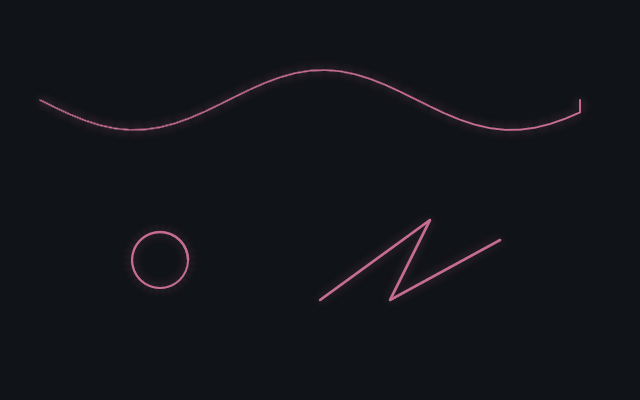
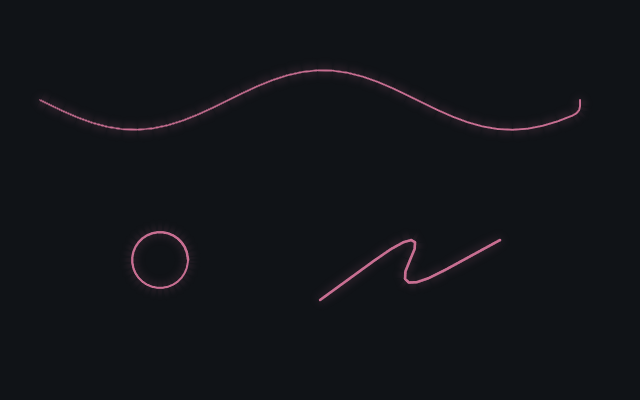
Smooth cursor paths and randomize fragment scattering and brightness

diff --git a/cursor-effects-native/tests/NativeTests.cs b/cursor-effects-native/tests/NativeTests.cs
@@ -61,21 +61,23 @@ sealed partial class CursorHost {
         Require(normal.Particles.Count==narrow.Particles.Count&&normal.Particles.Count==wide.Particles.Count,"Spread changes particle density");
         Require(narrow.Particles.All(p=>p.Y==200&&p.Vy==0),"Zero spread leaves the path");
         Require(normal.Particles.Count(p=>p.Y<200)>=3&&normal.Particles.Count(p=>p.Y>200)>=3,"Fragments do not occupy both sides of the path");
-        Require(normal.Particles.Average(p=>Math.Abs(p.Y-200))>12,"Default fragments still hug the path");
+        Require(normal.Particles.All(p=>Math.Abs(p.Y-200)<=3),"Fragments start in an artificial distant band");
+        Require(normal.Particles.Count(p=>p.Vx<0)>=2&&normal.Particles.Count(p=>p.Vx>0)>=2,"Scatter lacks random tangential directions");
+        Require(normal.Particles.Any(p=>(p.Y-200)*p.Vy<0),"Scatter always forces fragments outward from their initial offset");
         for(int i=0;i<normal.Particles.Count;i++){
             var a=normal.Particles[i];var b=wide.Particles[i];var v=vertical.Particles[i];
             Require(Math.Abs((b.Y-200)-2*(a.Y-200))<.00001&&Math.Abs(b.Vy-2*a.Vy)<.00001,"Spread does not scale distance independently");
-            Require(a.X==b.X&&a.Life==b.Life&&a.Size==b.Size,"Spread changes speed lifetime, density or size");
+            Require(Math.Abs((b.X-narrow.Particles[i].X)-2*(a.X-narrow.Particles[i].X))<.00001&&Math.Abs(b.Vx-2*a.Vx)<.00001&&a.Life==b.Life&&a.Size==b.Size&&a.Light==b.Light,"Spread changes lifetime, brightness, density or size");
             Require(Math.Abs(v.X-200+a.Y-200)<.00001&&Math.Abs(v.Y-a.X)<.00001,"Scatter is not perpendicular to a vertical path");
-            Require((a.Y-200)*a.Vy>0,"Fragments drift back toward the path");
         }
+        normal.Draw(.1);normal.Draw(.1);Require(normal.Particles.Average(p=>Math.Abs(p.Y-200))>5,"Random trajectories do not visibly disperse over time");
         var clickA=SpreadSample(0);var clickB=SpreadSample(3);clickA.Clear();clickB.Clear();clickA.Click=clickB.Click=true;clickA.Input(200,200,true,true);clickB.Input(200,200,true,true);
         Require(clickA.Particles.SelectMany(p=>new[]{p.X,p.Y,p.Vx,p.Vy,p.Life,p.Size}).SequenceEqual(clickB.Particles.SelectMany(p=>new[]{p.X,p.Y,p.Vx,p.Vy,p.Life,p.Size})),"Trail spread changes click bursts");
-        renderer.Appearance(Color.FromArgb(239,131,173),Color.FromArgb(219,90,145),Color.FromArgb(255,225,236));
+        var sakura=ColorPalette.All[2];renderer.Appearance(sakura.Trail,sakura.Ripple,sakura.Fragment);
         using(var sheet=new Bitmap(640,540))using(var g=Graphics.FromImage(sheet))using(var title=new Font("Microsoft JhengHei UI",13)){
             g.Clear(Color.FromArgb(16,19,23));
             for(int row=0;row<3;row++){
-                var fx=SpreadSample(row);fx.Viewport=new Rectangle(0,0,640,400);fx.Draw(.08);
+                var fx=SpreadSample(row);fx.Viewport=new Rectangle(0,0,640,400);fx.Draw(.1);fx.Draw(.02);
                 string path=Path.Combine(profile,"trail-spread-"+row+".png");SaveBackground(renderer.Capture(fx,640,400),Color.FromArgb(16,19,23),path);
                 g.DrawString("拖曳分散 "+(row*100)+"%"+(row==1?"（預設）":""),title,Brushes.White,20,row*180+10);
                 using(var rendered=new Bitmap(path))g.DrawImage(rendered,new Rectangle(0,row*180+36,640,140),new Rectangle(0,130,640,140),GraphicsUnit.Pixel);
@@ -122,6 +124,38 @@ sealed partial class CursorHost {
         foreach(var p in new[]{new Point(320,300),new Point(430,220),new Point(390,300),new Point(500,240)})curves.Input(p.X,p.Y,p.X==320,true);
         curves.Draw(.02);SaveBackground(renderer.Capture(curves,640,400),Color.FromArgb(16,19,23),Path.Combine(profile,"trail-joints.png"));
     }
+    static double LargestTurn(IEnumerable<PointF> points){
+        var p=points.ToArray();double largest=0;
+        for(int i=1;i<p.Length-1;i++){double ax=p[i].X-p[i-1].X,ay=p[i].Y-p[i-1].Y,bx=p[i+1].X-p[i].X,by=p[i+1].Y-p[i].Y;double norm=Math.Sqrt((ax*ax+ay*ay)*(bx*bx+by*by));if(norm>0)largest=Math.Max(largest,Math.Acos(Math.Max(-1,Math.Min(1,(ax*bx+ay*by)/norm))));}return largest;
+    }
+    void TestCurvesAndLight(){
+        var fx=new CursorEffects(()=>.5){Viewport=new Rectangle(0,0,640,400)};fx.Configure(true,false,1,1,0,1,60);
+        var sample=new[]{new Point(100,220),new Point(140,140),new Point(240,100),new Point(340,140),new Point(400,220),new Point(340,300),new Point(240,340),new Point(140,300),new Point(100,220)};
+        for(int i=0;i<sample.Length;i++)fx.Input(sample[i].X,sample[i].Y,i==0,true);fx.Draw(0);
+        Require(fx.SmoothTrail.Count>sample.Length&&fx.SmoothTrail.Count<=CursorEffects.MaxTrailVertices,"Sparse loop was not smoothed within a fixed budget");
+        Require(LargestTurn(fx.SmoothTrail.Select(p=>new PointF((float)p.X,(float)p.Y)))<LargestTurn(sample.Select(p=>new PointF(p.X,p.Y)))*.6,"Sparse loop still has pronounced angular joints");
+        Require(fx.SmoothTrail.All(p=>p.X>=100&&p.X<=400&&p.Y>=100&&p.Y<=340),"Curve overshoots input bounds");
+        Require(fx.SmoothTrail.First().X==100&&fx.SmoothTrail.Last().X==100&&fx.SmoothTrail.Last().Y==220,"Smoothing delays/drops the cursor endpoint");
+        var blue=ColorPalette.All[0];renderer.Appearance(blue.Trail,blue.Ripple,blue.Fragment);
+        SaveBackground(renderer.Capture(fx,640,400),Color.FromArgb(16,19,23),Path.Combine(profile,"curve-smooth.png"));
+        var legacy=new CursorEffects();for(int i=1;i<sample.Length;i++)legacy.Commands.Add(new DrawCommand(0,sample[i-1].X,sample[i-1].Y,sample[i].X,sample[i].Y,2.5,0,.9));
+        SaveBackground(renderer.Capture(legacy,640,400),Color.FromArgb(16,19,23),Path.Combine(profile,"curve-linear.png"));
+        using(var sheet=new Bitmap(1280,432))using(var g=Graphics.FromImage(sheet))using(var title=new Font("Microsoft JhengHei UI",13)){
+            g.Clear(Color.FromArgb(16,19,23));g.DrawString("相同稀疏取樣 · 原始折線",title,Brushes.White,20,8);g.DrawString("相同稀疏取樣 · 曲線補間",title,Brushes.White,660,8);
+            using(var a=new Bitmap(Path.Combine(profile,"curve-linear.png")))g.DrawImageUnscaled(a,0,32);using(var b=new Bitmap(Path.Combine(profile,"curve-smooth.png")))g.DrawImageUnscaled(b,640,32);sheet.Save(Path.Combine(profile,"curve-comparison.png"));
+        }
+        var lights=SpreadSample(1);lights.Draw(0);var before=lights.Commands.Where(c=>c.Kind==2).ToArray();
+        Require(before.Max(c=>c.Alpha)-before.Min(c=>c.Alpha)>.25,"Same-age fragments lack independent brightness");
+        var birth=lights.Particles.Select(p=>p.Light).ToArray();lights.Draw(0);Require(before.SequenceEqual(lights.Commands.Where(c=>c.Kind==2)),"Zero-time draw resamples randomness");
+        lights.Strength=0;lights.Draw(0);Require(!lights.Commands.Any(c=>c.Kind>=3)&&before.SequenceEqual(lights.Commands.Where(c=>c.Kind==2)),"Glow zero changes the particle body");
+        lights.Strength=3;lights.Draw(0);Require(before.SequenceEqual(lights.Commands.Where(c=>c.Kind==2)),"Glow strength changes body brightness");
+        lights.Draw(.1);Require(lights.Particles.Select(p=>p.Light).SequenceEqual(birth)&&lights.Commands.Where(c=>c.Kind==2).Zip(before,(a,b)=>a.Alpha<b.Alpha).All(v=>v),"Particle brightness flickers instead of fading");
+        // Worst-case 1s zigzags, maximum particles/rings/glow, same native ABI cap.
+        var stress=new CursorEffects(()=>.5){Viewport=new Rectangle(0,0,1920,1080)};stress.Configure(true,true,3,3,3,1,60);stress.SetTrailLifetime(1);
+        for(int i=0;i<16;i++)stress.Input(300,300,true,true);for(int i=0;i<128;i++)stress.Input(i%2==0?100:1800,100+i*5,false,true);stress.Draw(0);
+        Require(stress.SmoothTrail.Count<=CursorEffects.MaxTrailVertices&&stress.Commands.Count<=2048,"Curve maximum exceeds renderer budget");
+        renderer.Capture(stress,1920,1080);
+    }
     async void RunTest(){
         string report=Path.Combine(profile,"test.json");var checks=new List<string>();var shell=Native.ShellInputHandles().ToDictionary(h=>h,h=>Native.IsWindowEnabled(h));
         try{
@@ -145,7 +179,7 @@ sealed partial class CursorHost {
             before=Frames;Pointer(origin.X+150,origin.Y+100,true,true);await Task.Delay(150);Require(Frames-before>=7&&Frames-before<=12,"60 FPS scheduler");StopAnimation(true);ResetControls();inputTimer.Stop();checks.Add("fixed 60 FPS scheduler");
             var test=new CursorEffects(()=>.5){Viewport=new Rectangle(-1920,-100,3840,1080)};test.Input(-1820,0,true,true);Require(test.Points.Single().X==100&&test.Points.Single().Y==100,"Negative monitor origin");test.Input(-1800,20,true,true,true);Require(test.Points.Count==1,"Blocked input emits");test.Clear();test.Configure(true,true,1,1,3,1,60);test.Input(-1820,0,true,true);Require(test.Particles.Count==18,"Density multiplier");test.Configure(true,true,2,1,3,1,60);Require(test.Particles[0].Size==10,"Size multiplier");for(int i=0;i<1000;i++)test.Input(-1820+(i*4)%1500,100,true,true);Require(test.Points.Count==CursorEffects.MaxTrailPoints&&test.Particles.Count==192&&test.Rings.Count==16,"Unbounded particles");for(int i=0;i<20;i++)test.Draw(.1);Require(test.Alive==0,"Expiration");checks.Add("negative origin, blocked controls, multipliers, bounded memory, finite lifetimes");
             TestHighSpeedTrails();checks.Add("600px real GPU line without gaps, 3720px multi-monitor stroke with distributed fragments, release/blocked boundaries, 1000 rapid 7600px samples within fixed budgets");
-            TestTrailDefaultsAndFade();checks.Add("halved click and slow/fast drag density, 80 percent baseline width, 40-1000ms fade, continuous live edits, 1s trail at 125Hz");TestTrailJoints();checks.Add("GPU trail overlap invariant, no sample-node brightening or gaps, tight loops and acute turns, independent ring blend");TestTrailSpread();checks.Add("perpendicular two-sided scatter, independent range/count/click effects, 0/100/200 percent GPU previews");
+            TestTrailDefaultsAndFade();checks.Add("halved click and slow/fast drag density, 80 percent baseline width, 40-1000ms fade, continuous live edits, 1s trail at 125Hz");TestTrailJoints();checks.Add("GPU trail overlap invariant, no sample-node brightening or gaps, tight loops and acute turns, independent ring blend");TestTrailSpread();TestCurvesAndLight();checks.Add("near-path random velocity scatter, independent per-particle brightness, smooth sparse loops, bounded curve budget, glow changes halo only");
             var visual=new List<object>();double prev=0;
             renderer.Appearance(Color.FromArgb(69,237,255),Color.FromArgb(69,237,255),Color.FromArgb(196,252,255));
             foreach(int glow in new[]{0,1,3}){
@@ -173,7 +207,7 @@ sealed partial class CursorHost {
             renderer.Appearance(Color.FromArgb(69,237,255),Color.FromArgb(69,237,255),Color.FromArgb(196,252,255));var plain=renderer.Capture(Sample(1),640,400);SaveBackground(plain,Color.White,Path.Combine(profile,"effects-white.png"));SaveBackground(plain,Color.FromArgb(16,19,23),Path.Combine(profile,"effects-dark.png"));checks.Add("independent sizes/opacity, cached GPU recoloring, live particle speed and zero-speed expiration, original appearance without outlines");
             // Validate actual composition, not just offscreen drawing. The
             // screenshot is restricted to our own temporary black test window.
-            controls.HidePanel();StopAnimation(true);
+            controls.HidePanel();inputTimer.Stop();StopAnimation(true);lastHealth=clock.ElapsedMilliseconds;
             {
                 var area=Screen.PrimaryScreen.WorkingArea;var rect=new Rectangle(area.Left+Math.Max(0,(area.Width-640)/2),area.Top+Math.Max(0,(area.Height-400)/2),640,400);
                 // Overlay suppresses GDI painting; a normal owned form below
@@ -190,6 +224,7 @@ sealed partial class CursorHost {
             controls.VisibleValue.Checked=false;using(var bitmap=new Bitmap(controls.Width,controls.Height)){controls.DrawToBitmap(bitmap,new Rectangle(0,0,bitmap.Width,bitmap.Height));bitmap.Save(Path.Combine(profile,"controls-off.png"));}controls.VisibleValue.Checked=true;Configure();
             controls.WindowState=FormWindowState.Minimized;Require(controls.Visible&&controls.WindowState==FormWindowState.Minimized&&controls.ShowInTaskbar&&overlay.Visible,"Normal minimize changes effects/taskbar");ShowControls();Require(controls.Visible&&controls.WindowState==FormWindowState.Normal,"Restore");controls.HidePanel();Require(!controls.Visible&&overlay.Visible,"Hide differs from minimize");
             controls.Updating=true;controls.EffectSize.Value=173;controls.ParticleStrength.Value=142;controls.ParticleSpeed.Value=225;controls.TrailSpread.Value=175;controls.TrailFade.Value=320;controls.OpacityValue.Value=68;controls.RippleSize.Value=230;controls.TrailFragmentSize.Value=51;controls.ClickFragmentSize.Value=182;controls.ClickOpacity.Value=29;controls.TrailColor.Value=Color.Red;controls.RippleColor.Value=Color.Blue;controls.FragmentColor.Value=Color.Green;controls.VisibleValue.Checked=false;controls.Updating=false;SaveControls(true);Require(!File.ReadAllText(ControlsPath).Contains("contrast"),"Removed outline persisted");controls.VisibleValue.Checked=true;ResetControls();Require(controls.ParticleSpeed.Value==100&&controls.TrailSpread.Value==100&&controls.TrailFade.Value==180,"Speed/spread/fade reset");RestoreControls(true);Require(controls.EffectSize.Value==173&&controls.ParticleStrength.Value==142&&controls.ParticleSpeed.Value==225&&controls.TrailSpread.Value==175&&controls.TrailFade.Value==320&&controls.OpacityValue.Value==68&&controls.RippleSize.Value==230&&controls.TrailFragmentSize.Value==51&&controls.ClickFragmentSize.Value==182&&controls.ClickOpacity.Value==29&&controls.TrailColor.Value.ToArgb()==Color.Red.ToArgb()&&controls.RippleColor.Value.ToArgb()==Color.Blue.ToArgb()&&controls.FragmentColor.Value.ToArgb()==Color.Green.ToArgb()&&!controls.VisibleValue.Checked,"Settings persistence");Configure();Require(!overlay.Visible,"Restored OFF ignored");
+            File.WriteAllText(ControlsPath,"{\"version\":6,\"trailColor\":\"#EF83AD\",\"rippleColor\":\"#DB5A91\",\"fragmentColor\":\"#FFE1EC\",\"trailFadeMs\":320}");RestoreControls(true);Require(controls.TrailColor.Value==ColorPalette.All[2].Trail&&controls.RippleColor.Value==ColorPalette.All[2].Ripple&&controls.FragmentColor.Value==ColorPalette.All[2].Fragment&&controls.TrailFade.Value==320,"Old Sakura preset migration changed custom parameters");
             File.WriteAllText(ControlsPath,"{\"version\":1,\"visible\":true,\"top\":false,\"monitor\":\"removed\",\"fps\":7,\"size\":125}");RestoreControls(true);Configure();Require(controls.VisibleValue.Checked&&overlay.Visible&&overlay.Bounds==SystemInformation.VirtualScreen&&effects.Fps==60&&(Native.GetWindowLongPtr(overlay.Handle,-20).ToInt64()&8)!=0,"Legacy settings override fixed behavior");checks.Add("actual settings save/restore, legacy visibility migration ignores removed options");
             Require(controls.TrailSpread.Value==100&&controls.TrailFade.Value==180&&controls.RippleSize.Value==125&&controls.TrailFragmentSize.Value==125&&controls.ClickFragmentSize.Value==125,"Legacy global size migration");foreach(var entry in shell)Require(!entry.Value||!Native.IsWindow(entry.Key)||Native.IsWindowEnabled(entry.Key),"Shell disabled");checks.Add("normal taskbar minimize, explicit hide keeps effects, restore works, X exits");
             var result=new{passed=true,hardware=renderer.Hardware,checks,visual,frames=Frames,layerRepairs};controls.Close();Require(quitting&&controls.IsDisposed,"X didn't exit");File.WriteAllText(report,Json.Serialize(result));

diff --git a/cursor-effects-native/src/Effects.cs b/cursor-effects-native/src/Effects.cs
@@ -8,10 +8,13 @@ using System.Runtime.InteropServices;
     public DrawCommand(int kind,double x,double y,double x2,double y2,double width,double angle,double alpha){Kind=kind;X=(float)x;Y=(float)y;X2=(float)x2;Y2=(float)y2;Width=(float)width;Angle=(float)(angle*180/Math.PI);Alpha=(float)alpha;}
 }
 sealed class CursorEffects {
-    internal sealed class Item {public double X,Y,Vx,Vy,Angle,Spin,Age,Life,Size;public bool Start,Burst;}
+    internal sealed class Item {public double X,Y,Vx,Vy,Angle,Spin,Age,Life,Size,Light=1;public bool Start,Burst;}
+    internal struct TrailVertex {public double X,Y,Fade,Width;public bool Start;}
     internal const int MaxTrailPoints=128;
+    internal const int MaxTrailVertices=MaxTrailPoints*4;
     internal readonly List<Item> Points=new List<Item>(MaxTrailPoints),Particles=new List<Item>(192),Rings=new List<Item>(16);
-    public readonly List<DrawCommand> Commands=new List<DrawCommand>(1600);
+    internal readonly List<TrailVertex> SmoothTrail=new List<TrailVertex>(MaxTrailVertices);
+    public readonly List<DrawCommand> Commands=new List<DrawCommand>(2048);
     readonly Func<double> random;Item last;double trailEmission;
     public bool Trail=true,Click=true,Dirty;public double Size=1,Strength=1,Density=.5,Opacity=1;public int Fps=60;
     public double TrailWidth=.8,RippleSize=1,TrailFragmentSize=1,ClickFragmentSize=1,TrailOpacity=1,ClickOpacity=1;double particleSpeed=1,trailSpread=1,trailLifetime=.18;
@@ -33,7 +36,7 @@ sealed class CursorEffects {
     }
     static double Clamp(double value,double min,double max){return double.IsNaN(value)||double.IsInfinity(value)?min:Math.Max(min,Math.Min(max,value));}
     static double Distance(Item a,Item b){double x=a.X-b.X,y=a.Y-b.Y;return Math.Sqrt(x*x+y*y);}
-    public void Clear(bool resetPointer=true){Points.Clear();Particles.Clear();Rings.Clear();Commands.Clear();if(resetPointer){last=null;trailEmission=0;}Dirty=false;}
+    public void Clear(bool resetPointer=true){Points.Clear();SmoothTrail.Clear();Particles.Clear();Rings.Clear();Commands.Clear();if(resetPointer){last=null;trailEmission=0;}Dirty=false;}
     public void Input(double x,double y,bool down,bool pressed,bool blocked=false){
         if(blocked||x<Viewport.Left||y<Viewport.Top||x>=Viewport.Right||y>=Viewport.Bottom){last=null;trailEmission=0;return;}
         if(Opacity==0||!Trail&&!Click)return;
@@ -60,12 +63,14 @@ sealed class CursorEffects {
         int count=(int)Math.Floor(trailEmission);trailEmission-=count;
         double tx=(b.X-a.X)/distance,ty=(b.Y-a.Y)/distance,nx=-ty,ny=tx;
         for(int i=0;i<count;i++){
-            // Stratified positions preserve coverage at high speed. Spawn on
-            // both sides of the path so short-lived fragments separate visibly.
-            double t=(i+random())/count,side=random()<.5?-1:1,scale=Size*trailSpread;
-            double offset=side*(8+random()*20)*scale;
-            var p=Particle(a.X+(b.X-a.X)*t+nx*offset,a.Y+(b.Y-a.Y)*t+ny*offset,false);
-            double drift=(random()-.5)*22*Size,outward=side*(18+random()*38)*scale;
+            // Start near the path, then travel in a random direction. There is
+            // no empty strip or compulsory outward offset on either side.
+            double t=(i+random())/count,scale=Size*trailSpread;
+            double spawnAngle=random()*Math.PI*2,radius=Math.Sqrt(random())*3*scale;
+            double along=Math.Cos(spawnAngle)*radius,across=Math.Sin(spawnAngle)*radius;
+            var p=Particle(a.X+(b.X-a.X)*t+tx*along+nx*across,a.Y+(b.Y-a.Y)*t+ty*along+ny*across,false);
+            double angle=random()*Math.PI*2,speed=(25+random()*75)*scale;
+            double drift=Math.Cos(angle)*speed*.55,outward=Math.Sin(angle)*speed;
             p.Vx=tx*drift+nx*outward;p.Vy=ty*drift+ny*outward;
         }
         LimitParticles();
@@ -75,7 +80,7 @@ sealed class CursorEffects {
     }
     Item Particle(double x,double y,bool burst){
         double a=random()*Math.PI*2,s=burst?60+random()*130:15+random()*40;
-        var p=new Item{X=x,Y=y,Vx=Math.Cos(a)*s,Vy=Math.Sin(a)*s,Angle=a,Spin=(random()-.5)*2,Life=burst?.42+.25*random():.28+.16*random(),Size=(3+random()*4)*Size*(burst?ClickFragmentSize:TrailFragmentSize),Burst=burst};Particles.Add(p);return p;
+        var p=new Item{X=x,Y=y,Vx=Math.Cos(a)*s,Vy=Math.Sin(a)*s,Angle=a,Spin=(random()-.5)*2,Life=burst?.42+.25*random():.28+.16*random(),Size=(3+random()*4)*Size*(burst?ClickFragmentSize:TrailFragmentSize),Light=.5+.5*random(),Burst=burst};Particles.Add(p);return p;
     }
     void LimitParticles(){if(Particles.Count>192)Particles.RemoveRange(0,Particles.Count-192);}
     public void Update(double dt){
@@ -91,22 +96,56 @@ sealed class CursorEffects {
         }
     }
     void Add(int type,double x,double y,double x2,double width,double angle,double alpha,double y2=0){Commands.Add(new DrawCommand(type,x,y,x2,y2,width,angle,alpha));}
+    TrailVertex Vertex(int index){var p=Points[index];return new TrailVertex{X=p.X,Y=p.Y,Fade=1-p.Age/p.Life,Width=(1.5+2*(double)index/Points.Count)*Size*TrailWidth};}
+    static TrailVertex Lerp(TrailVertex a,TrailVertex b,double t){return new TrailVertex{X=a.X+(b.X-a.X)*t,Y=a.Y+(b.Y-a.Y)*t,Fade=a.Fade+(b.Fade-a.Fade)*t,Width=a.Width+(b.Width-a.Width)*t};}
+    void BuildSmoothTrail(){
+        // Quadratic corner rounding stays inside each sample triangle: no
+        // overshoot, delayed cursor head, extra polling or per-frame objects.
+        // Share a fixed vertex budget; typical strokes get up to 12 samples
+        // per corner, while long/dense strokes cannot expand the draw budget.
+        SmoothTrail.Clear();
+        int maxSteps=Math.Min(12,MaxTrailVertices/Math.Max(1,Points.Count));
+        for(int start=0;start<Points.Count;){
+            int end=start;while(end+1<Points.Count&&!Points[end+1].Start)end++;
+            if(end>start){
+                var head=Vertex(start);head.Start=true;SmoothTrail.Add(head);
+                if(end>start+1){
+                    var left=Lerp(head,Vertex(start+1),.5);SmoothTrail.Add(left);
+                    for(int i=start+1;i<end;i++){
+                        var control=Vertex(i);var right=Lerp(control,Vertex(i+1),.5);
+                        double dx=left.X-2*control.X+right.X,dy=left.Y-2*control.Y+right.Y;
+                        int steps=Math.Max(1,Math.Min(maxSteps,(int)Math.Ceiling(Math.Sqrt(Math.Sqrt(dx*dx+dy*dy)/2))));
+                        for(int j=1;j<=steps;j++){double t=(double)j/steps;SmoothTrail.Add(Lerp(Lerp(left,control,t),Lerp(control,right,t),t));}
+                        left=right;
+                    }
+                }
+                SmoothTrail.Add(Vertex(end));
+            }
+            start=end+1;
+        }
+    }
+    double ParticleAlpha(Item p){
+        // Brightness is chosen once at birth, never randomized per frame.
+        // Keep the early portion legible, then fade smoothly to zero.
+        double t=Math.Max(0,1-p.Age/p.Life);
+        return Opacity*(p.Burst?ClickOpacity:TrailOpacity)*p.Light*t*(1.8-.8*t);
+    }
     void TrailHalo(double intensity){
-        for(int i=1;i<Points.Count;i++){var a=Points[i-1];var b=Points[i];double len=Distance(a,b);if(b.Start||len==0)continue;Add(3,a.X,a.Y,len,Size*TrailWidth,Math.Atan2(b.Y-a.Y,b.X-a.X),Opacity*TrailOpacity*.9*(1-b.Age/b.Life)*intensity);}
+        for(int i=1;i<SmoothTrail.Count;i++){var a=SmoothTrail[i-1];var b=SmoothTrail[i];double dx=b.X-a.X,dy=b.Y-a.Y,len=Math.Sqrt(dx*dx+dy*dy);if(b.Start||len==0)continue;Add(3,a.X,a.Y,len,Size*TrailWidth,Math.Atan2(dy,dx),Opacity*TrailOpacity*.9*b.Fade*intensity);}
     }
     void Halo(double intensity){
         foreach(var r in Rings){double t=r.Age/r.Life,scale=Size*RippleSize,alpha=Opacity*ClickOpacity*(1-t)*.85*intensity,radius=(8+72*t)*scale;Add(4,r.X,r.Y,radius,24*scale,0,alpha*.07);Add(4,r.X,r.Y,radius,13*scale,0,alpha*.13);Add(4,r.X,r.Y,radius,6*scale,0,alpha*.24);}
-        foreach(var p in Particles)Add(5,p.X,p.Y,0,p.Size/5,p.Angle,Opacity*(p.Burst?ClickOpacity:TrailOpacity)*(1-p.Age/p.Life)*intensity);
+        foreach(var p in Particles)Add(5,p.X,p.Y,0,p.Size/5,p.Angle,ParticleAlpha(p)*intensity);
     }
     public bool Draw(double dt){
-        Update(dt);if(Alive==0&&!Dirty)return false;Commands.Clear();
+        Update(dt);if(Alive==0&&!Dirty)return false;Commands.Clear();BuildSmoothTrail();
         // Render the trail before independent rings/fragments. Trail coverage
         // uses MAX blending, avoiding brighter sample joints and loop crossings.
         if(Strength>0)TrailHalo(1-Math.Pow(.45,Strength));
-        for(int i=1;i<Points.Count;i++){var a=Points[i-1];var b=Points[i];if(b.Start||Distance(a,b)==0)continue;Add(0,a.X,a.Y,b.X,(1.5+2*(double)i/Points.Count)*Size*TrailWidth,0,Opacity*TrailOpacity*.9*(1-b.Age/b.Life),b.Y);}
+        for(int i=1;i<SmoothTrail.Count;i++){var a=SmoothTrail[i-1];var b=SmoothTrail[i];if(b.Start||a.X==b.X&&a.Y==b.Y)continue;Add(0,a.X,a.Y,b.X,b.Width,0,Opacity*TrailOpacity*.9*b.Fade,b.Y);}
         for(double remaining=Strength*.55;remaining>0;remaining-=1)Halo(Math.Min(1,remaining));
         foreach(var r in Rings){double t=r.Age/r.Life;Add(1,r.X,r.Y,(8+72*t)*Size*RippleSize,2.5*Size*RippleSize,0,Opacity*ClickOpacity*(1-t)*.85);}
-        foreach(var p in Particles)Add(2,p.X,p.Y,0,p.Size,p.Angle,Opacity*(p.Burst?ClickOpacity:TrailOpacity)*(1-p.Age/p.Life));
+        foreach(var p in Particles)Add(2,p.X,p.Y,0,p.Size,p.Angle,ParticleAlpha(p));
         Dirty=Alive>0;return true;
     }
     public Rectangle Surface(){

diff --git a/cursor-effects-native/src/Controls.cs b/cursor-effects-native/src/Controls.cs
@@ -104,7 +104,7 @@ sealed class ColorPalette {
     public static readonly ColorPalette[] All={
         new ColorPalette("蔚藍檔案",0x45edff,0x45edff,0xc4fcff),
         new ColorPalette("星夜紫",0xb087ff,0x8c67ef,0xf3e8ff),
-        new ColorPalette("櫻花粉",0xef83ad,0xdb5a91,0xffe1ec),
+        new ColorPalette("櫻花紅",0xff4f87,0xf52d68,0xff87b0),
         new ColorPalette("薄荷綠",0x42dca1,0x22b889,0xd1ffe9),
         new ColorPalette("暖金琥珀",0xffbe55,0xe79a32,0xfff0ca),
         new ColorPalette("珊瑚夕霞",0xff8a6c,0xec6177,0xffdbb0)
@@ -123,6 +123,7 @@ sealed class PaletteField : ComboBox {
 
 sealed class ControlsWindow : Form {
     readonly CursorHost host;
+    readonly ToolTip hints=new ToolTip();
     public readonly NumberField OpacityValue=AppTheme.Number(0,100,100),Strength=AppTheme.Number(0,300,100),EffectSize=AppTheme.Number(25,300,100),ParticleStrength=AppTheme.Number(0,300,100);
     public readonly NumberField TrailFragmentSize=AppTheme.Number(25,300,100),RippleSize=AppTheme.Number(25,300,100),ClickFragmentSize=AppTheme.Number(25,300,100),ClickOpacity=AppTheme.Number(0,100,100);
     public readonly NumberField ParticleSpeed=AppTheme.Number(0,300,100),TrailSpread=AppTheme.Number(0,300,100),TrailFade=AppTheme.Number(40,1000,180);
@@ -149,7 +150,9 @@ sealed class ControlsWindow : Form {
         var tabRow=new TableLayoutPanel{Dock=DockStyle.Fill,ColumnCount=3,RowCount=1,Margin=Padding.Empty};tabRow.RowStyles.Add(new RowStyle(SizeType.Percent,100));tabs=new Button[3];var titles=new[]{"拖曳光跡","點擊效果","碎片"};for(int i=0;i<3;i++){int index=i;tabRow.ColumnStyles.Add(new ColumnStyle(SizeType.Percent,100f/3));var tab=AppTheme.Button(titles[i],()=>SelectPage(index));tab.Dock=DockStyle.Fill;tab.Margin=new Padding(i==0?0:3,0,i==2?0:3,4);tabs[i]=tab;tabRow.Controls.Add(tab,i,0);}body.Controls.Add(tabRow,0,2);
         var pageHost=new Panel{Dock=DockStyle.Fill,Margin=new Padding(0,0,0,8)};var drag=Page();Row(drag,"",AppTheme.Group(Trail),34);Row(drag,"光跡顏色",TrailColor,38);Row(drag,"軌跡粗細 %",AppTheme.Slider(EffectSize),38);Row(drag,"碎片大小 %",AppTheme.Slider(TrailFragmentSize),38);Row(drag,"不透明度 %",AppTheme.Slider(OpacityValue),38);Row(drag,"衰退時間 ms",AppTheme.Slider(TrailFade),38);
         var click=Page();Row(click,"",AppTheme.Group(ClickValue),34);Row(click,"波紋顏色",RippleColor,38);Row(click,"波紋大小 %",AppTheme.Slider(RippleSize),38);Row(click,"碎片大小 %",AppTheme.Slider(ClickFragmentSize),38);Row(click,"不透明度 %",AppTheme.Slider(ClickOpacity),38);
-        var fragments=Page();Row(fragments,"碎片顏色",FragmentColor,38);Row(fragments,"碎片數量 %",AppTheme.Slider(ParticleStrength),38);Row(fragments,"碎片速度 %",AppTheme.Slider(ParticleSpeed),38);Row(fragments,"拖曳分散 %",AppTheme.Slider(TrailSpread),38);Row(fragments,"光暈強度 %",AppTheme.Slider(Strength),38);
+        var glow=AppTheme.Slider(Strength);const string glowHelp="調整光跡、波紋及碎片周圍的柔光。0% 關閉柔光，本體仍保留；不改變數量、大小或分散距離。";
+        Action<Control> glowHint=null;glowHint=c=>{hints.SetToolTip(c,glowHelp);c.AccessibleDescription=glowHelp;foreach(Control child in c.Controls)glowHint(child);};glowHint(glow);
+        var fragments=Page();Row(fragments,"碎片顏色",FragmentColor,38);Row(fragments,"碎片數量 %",AppTheme.Slider(ParticleStrength),38);Row(fragments,"碎片速度 %",AppTheme.Slider(ParticleSpeed),38);Row(fragments,"拖曳分散 %",AppTheme.Slider(TrailSpread),38);Row(fragments,"周圍光暈 %",glow,38);
         pages=new Control[]{drag,click,fragments};foreach(var page in new[]{drag,click,fragments}){page.RowCount++;page.RowStyles.Add(new RowStyle(SizeType.Percent,100));pageHost.Controls.Add(page);}body.Controls.Add(pageHost,0,3);
         var footer=new TableLayoutPanel{Dock=DockStyle.Fill,ColumnCount=3,RowCount=1,Margin=Padding.Empty};footer.ColumnStyles.Add(new ColumnStyle(SizeType.Absolute,76));footer.ColumnStyles.Add(new ColumnStyle(SizeType.Percent,100));footer.ColumnStyles.Add(new ColumnStyle(SizeType.Absolute,104));footer.RowStyles.Add(new RowStyle(SizeType.Percent,100));
         var reset=AppTheme.Button("重設",()=>host.ResetControls());reset.Dock=DockStyle.Fill;reset.AccessibleName="重設效果";footer.Controls.Add(reset,0,0);Status=new Label{Dock=DockStyle.Fill,ForeColor=AppTheme.Muted,Visible=false,AutoEllipsis=true,TextAlign=ContentAlignment.MiddleLeft,Margin=new Padding(8,0,8,0)};footer.Controls.Add(Status,1,0);var hide=AppTheme.Button("收起面板",HidePanel);hide.Dock=DockStyle.Fill;footer.Controls.Add(hide,2,0);body.Controls.Add(footer,0,4);
@@ -158,7 +161,7 @@ sealed class ControlsWindow : Form {
         foreach(var c in new[]{TrailColor,RippleColor,FragmentColor})c.ColorChanged+=(s,e)=>{if(!Updating)SyncPalette();Changed();};
         Palette.SelectedIndexChanged+=(s,e)=>{if(!synchronizingPalette&&!Updating&&Palette.SelectedIndex>0)host.ApplyPalette(ColorPalette.All[Palette.SelectedIndex-1]);};
         SyncPalette();SelectPage(0);
-        FormClosed+=(s,e)=>host.Quit(0);Updating=false;
+        FormClosed+=(s,e)=>{hints.Dispose();host.Quit(0);};Updating=false;
     }
     void Changed(){if(!Updating){host.UpdateVisibilityMenu();if(!VisibleValue.Checked)host.Configure();else host.ScheduleConfigure();}}
     static TableLayoutPanel Page(){var p=new TableLayoutPanel{Dock=DockStyle.Fill,ColumnCount=2,RowCount=0,Padding=new Padding(14,10,14,10),BackColor=AppTheme.Card,Margin=Padding.Empty};p.ColumnStyles.Add(new ColumnStyle(SizeType.Absolute,94));p.ColumnStyles.Add(new ColumnStyle(SizeType.Percent,100));return p;}

diff --git a/cursor-effects-native/src/Program.cs b/cursor-effects-native/src/Program.cs
@@ -146,11 +146,15 @@ sealed partial class CursorHost : ApplicationContext {
             controls.TrailFade.Value=180;number("trailFadeMs",controls.TrailFade);
             Action<string,ColorField> color=(key,input)=>{if(data.TryGetValue(key,out value)&&value is string){string hex=((string)value).TrimStart('#');int rgb;if(hex.Length==6&&int.TryParse(hex,System.Globalization.NumberStyles.HexNumber,System.Globalization.CultureInfo.InvariantCulture,out rgb))input.Value=Color.FromArgb(255,(rgb>>16)&255,(rgb>>8)&255,rgb&255);}};
             color("trailColor",controls.TrailColor);color("rippleColor",controls.RippleColor);color("fragmentColor",controls.FragmentColor);
+            int settingsVersion=data.TryGetValue("version",out value)?Convert.ToInt32(value):0;
+            if(settingsVersion<7&&controls.TrailColor.Text=="#EF83AD"&&controls.RippleColor.Text=="#DB5A91"&&controls.FragmentColor.Text=="#FFE1EC"){
+                var sakura=ColorPalette.All[2];controls.TrailColor.Value=sakura.Trail;controls.RippleColor.Value=sakura.Ripple;controls.FragmentColor.Value=sakura.Fragment;
+            }
             if(data.ContainsKey("enabled"))check("enabled",controls.VisibleValue);else check("visible",controls.VisibleValue);
         }catch(Exception e){Log("設定載入失敗："+e.Message);}finally{controls.Updating=false;controls.SyncPalette();}
     }
     void SaveControls(bool force=false){if(Test&&!force||controls.Updating)return;try{
-        var data=new{version=6,trailFadeMs=controls.TrailFade.Value,trailWidth=controls.EffectSize.Value,rippleSize=controls.RippleSize.Value,trailFragmentSize=controls.TrailFragmentSize.Value,clickFragmentSize=controls.ClickFragmentSize.Value,trailOpacity=controls.OpacityValue.Value,clickOpacity=controls.ClickOpacity.Value,particles=controls.ParticleStrength.Value,particleSpeed=controls.ParticleSpeed.Value,trailSpread=controls.TrailSpread.Value,glow=controls.Strength.Value,trail=controls.Trail.Checked,click=controls.ClickValue.Checked,enabled=controls.VisibleValue.Checked,trailColor=controls.TrailColor.Text,rippleColor=controls.RippleColor.Text,fragmentColor=controls.FragmentColor.Text};
+        var data=new{version=7,trailFadeMs=controls.TrailFade.Value,trailWidth=controls.EffectSize.Value,rippleSize=controls.RippleSize.Value,trailFragmentSize=controls.TrailFragmentSize.Value,clickFragmentSize=controls.ClickFragmentSize.Value,trailOpacity=controls.OpacityValue.Value,clickOpacity=controls.ClickOpacity.Value,particles=controls.ParticleStrength.Value,particleSpeed=controls.ParticleSpeed.Value,trailSpread=controls.TrailSpread.Value,glow=controls.Strength.Value,trail=controls.Trail.Checked,click=controls.ClickValue.Checked,enabled=controls.VisibleValue.Checked,trailColor=controls.TrailColor.Text,rippleColor=controls.RippleColor.Text,fragmentColor=controls.FragmentColor.Text};
         var temp=ControlsPath+".tmp";File.WriteAllText(temp,Json.Serialize(data),Encoding.UTF8);if(File.Exists(ControlsPath))File.Replace(temp,ControlsPath,null);else File.Move(temp,ControlsPath);
     }catch(Exception e){Log("設定儲存失敗："+e.Message);}}
     public void ApplyPalette(ColorPalette palette){controls.Updating=true;try{controls.TrailColor.Value=palette.Trail;controls.RippleColor.Value=palette.Ripple;controls.FragmentColor.Value=palette.Fragment;}finally{controls.Updating=false;}controls.SyncPalette();Configure();}

diff --git a/cursor-effects-native/README.md b/cursor-effects-native/README.md
@@ -22,16 +22,16 @@ Windows 防護可能阻擋下載或執行，原因尚未確認。
 
 ## 大小與效能
 
-**EXE：103 KiB**；首次執行另釋出約 **19 KiB** 原生 DLL。
+**EXE：105 KiB**；首次執行另釋出約 **19 KiB** 原生 DLL。
 
 測試電腦：**i5-12600K、RTX 4060、Windows 10 22H2**，桌面範圍 3840×1080。
 
 | 狀態 | CPU | 記憶體（工作集） |
 | --- | ---: | ---: |
 | 背景常駐、無操作 | 約 0–0.03% | 約 74–82 MiB |
-| 持續播放預設效果 | 約 0.02% | 約 79 MiB |
-| 全部大小、分散、速度、碎片與光暈 300%，衰退 1000 ms | 約 0.11% | 約 80 MiB |
-| 跨桌面高速拖曳，碎片／光暈 300% | 約 0.47% | 約 82 MiB |
+| 持續播放預設效果 | 約 0.13% | 約 79 MiB |
+| 全部大小、分散、速度、碎片與光暈 300%，衰退 1000 ms | 約 0.11% | 約 81 MiB |
+| 跨桌面高速拖曳，碎片／光暈 300% | 約 0.50% | 約 82 MiB |
 
 效果固定 60 FPS，結束後停止繪製。以上為收起面板、每階段 6 秒的短時量測；CPU 按 16 邏輯執行緒折算，未包含桌面合成器（DWM）。約 0% 為短測的計時精度，不代表完全零負載；不同電腦與測量時段會有差異。
 
@@ -46,15 +46,19 @@ Windows 防護可能阻擋下載或執行，原因尚未確認。
 
 C#／WinForms 控制面板，C++／Direct2D + DirectComposition 繪製。只繪製效果附近的小區域，閒置時停止渲染；圖片與原生模組內嵌於 EXE。GPU 不可用時退回 WARP 軟體繪圖。
 
-高速拖曳時連接取樣點，碎片分布在沿途，各次取樣與存活碎片數量均有上限。停頓後續接原位置，放開滑鼠或進入控制面板時結束該段。
+高速拖曳時連接取樣點，轉折使用輕量二次曲線補間；不增加滑鼠輪詢頻率，也不延遲最新端點。曲線頂點與存活碎片數量均有上限。停頓後續接原位置，放開滑鼠或進入控制面板時結束該段。
 
-「碎片 → 拖曳分散 %」可調 0–300%，預設 100%：碎片從路徑兩側生成並向外飄散，0% 貼合路徑，不影響數量或點擊波紋。
+「碎片 → 拖曳分散 %」可調 0–300%，預設 100%：碎片從軌跡附近生成，再以隨機方向與速度散開；不再預先放到兩側的距離帶。0% 貼合路徑，不影響數量或點擊波紋。每顆碎片具有不同初始明暗並平順淡出，亂數不會每幀重新抽取。
+
+「周圍光暈 %」控制光跡、點擊波紋與碎片周圍的柔光，0% 關閉柔光，本體仍保留；不改變碎片數量、大小或分散距離。櫻花紅模板使用較鮮明的紅粉光跡與粉色碎片。
 
 「拖曳光跡 → 衰退時間 ms」可調 40–1000 毫秒，預設 **180 毫秒**；僅控制光跡，碎片仍使用自己的速度設定。設定會自動儲存，「重設」還原預設外觀。
 
 光跡與光暈使用 Direct2D MAX 混合，避免接點、急彎與重疊處反覆累積亮度；點擊波紋與碎片維持原混合方式。不增加離屏紋理或逐幀模糊運算。
 
 ![光跡曲線、小圈與急彎的實際渲染](docs/trail-joints.png)
+
+![相同稀疏取樣的折線與曲線補間比較](docs/curve-comparison.png)
 
 ![拖曳分散 0%、100%、200% 的實際繪圖比較](docs/trail-spread.png)
 
